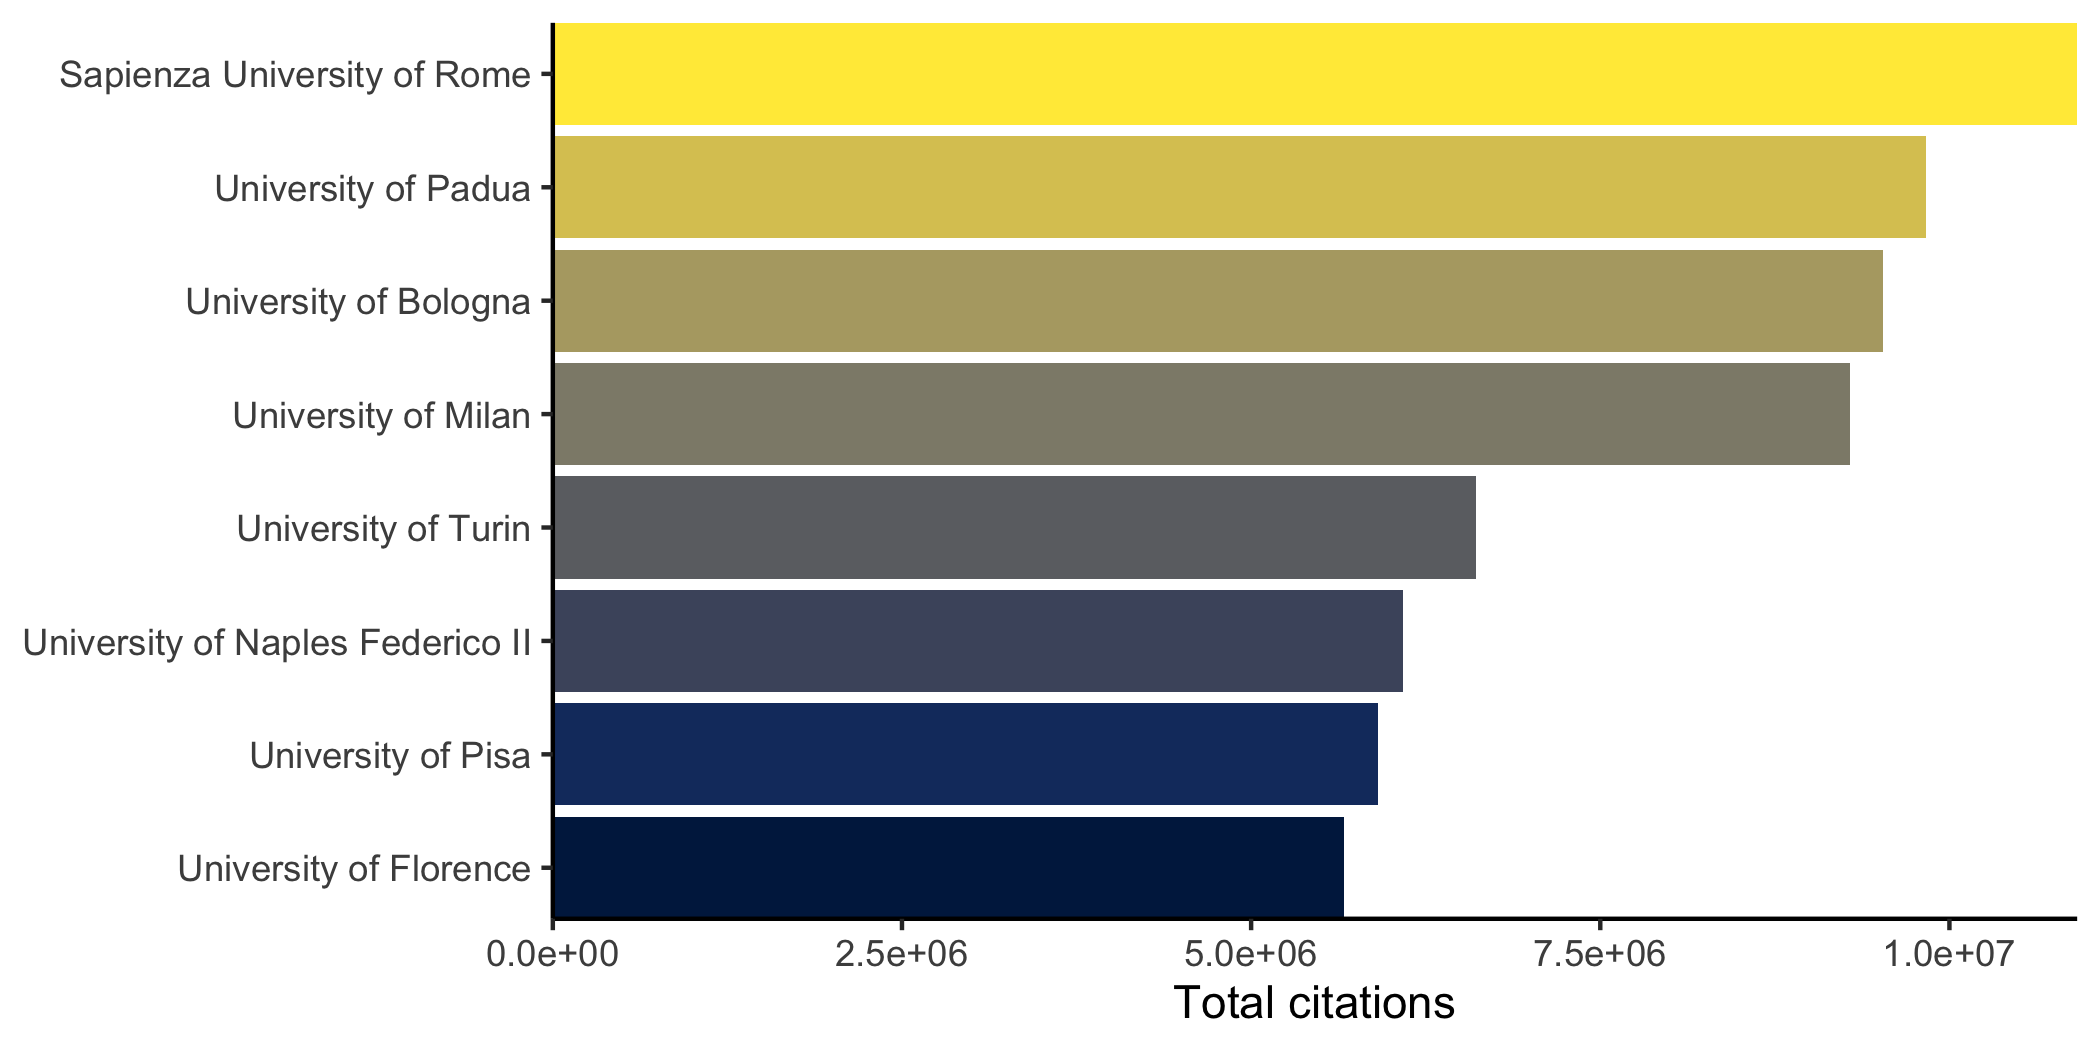
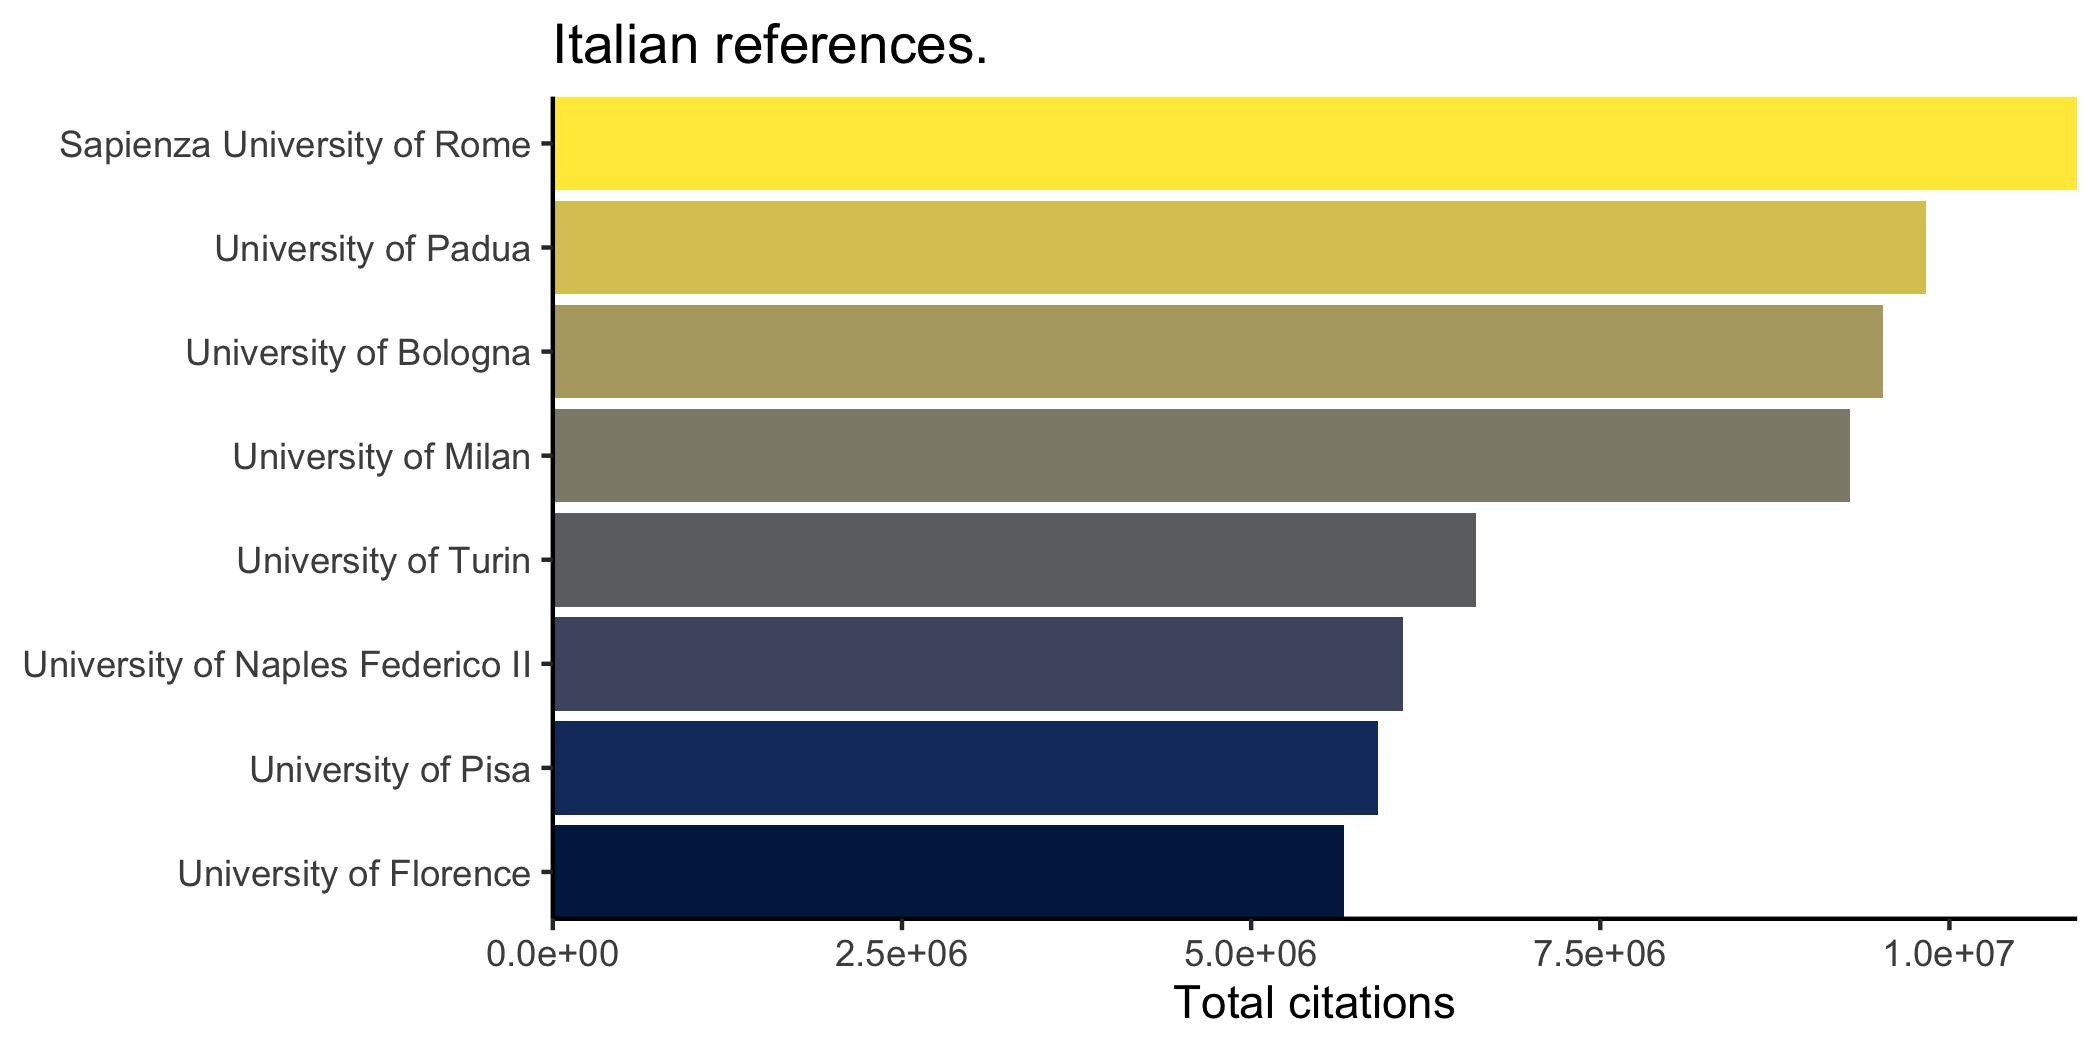
minor change

diff --git a/README.md b/README.md
@@ -6,11 +6,11 @@
 <!-- badges: start -->
 
 [![R-CMD-check](https://github.com/massimoaria/openalexR/actions/workflows/R-CMD-check.yaml/badge.svg)](https://github.com/massimoaria/openalexR/actions/workflows/R-CMD-check.yaml)
-[![](http://cranlogs.r-pkg.org/badges/grand-total/openalexR)](https://cran.r-project.org/package=openalexR)
-[![CRAN
-status](https://www.r-pkg.org/badges/version/openalexR)](https://CRAN.R-project.org/package=openalexR)
 [![Lifecycle:
 experimental](https://img.shields.io/badge/lifecycle-experimental-orange.svg)](https://lifecycle.r-lib.org/articles/stages.html#experimental)
+[![CRAN
+status](https://www.r-pkg.org/badges/version/openalexR)](https://CRAN.R-project.org/package=openalexR)
+[![](http://cranlogs.r-pkg.org/badges/grand-total/openalexR)](https://cran.r-project.org/package=openalexR)
 
 <!-- badges: end -->
 
@@ -32,12 +32,12 @@ concepts with 5 main functions:
 -   `oa2df()`: converts the JSON object in classical bibliographic
     tibble/data frame.
 
--   `oa_random()`: to get random entity, e.g., `oa_random("works")`
-    gives a different work each time you run it
+-   `oa_random()`: get random entity, *e.g.*, `oa_random("works")` gives
+    a different work each time you run it
 
 ## Setup
 
-You can install the developer version of the openalexR from
+You can install the developer version of openalexR from
 [GitHub](https://github.com) with:
 
 ``` r
@@ -62,7 +62,7 @@ options(openalexR.mailto = "example@email.com")
 ```
 
 Bonus point if you put this in your `.Rprofile` with
-`usethis::edit_r_profile()`.
+`file.edit("~/.Rprofile")`.
 
 ``` r
 library(openalexR)
@@ -78,14 +78,14 @@ There are different
 you can use in `oa_fetch`, depending on which
 [entity](https://docs.openalex.org/about-the-data) you’re interested in:
 works, authors, venues, institutions, or concepts. We show a few
-examples before.
+examples below.
 
 ### Works
 
-**Goal**: Download all information about certain publications (given
-DOIs).
+**Goal**: Download all information about a givens set of publications
+(known DOIs).
 
-Use `doi` as a [**works**
+Use `doi` as a [works
 filter](https://docs.openalex.org/api/get-lists-of-entities/filter-entity-lists#works-filters)
 (either the canonical form with <https://doi.org/> or without):
 
@@ -106,7 +106,7 @@ oa_fetch(
 | W2755950973 | bibliometrix : An R-tool for comprehensive science mapping analysis                    | Massimo Aria     | Corrado Cuccurullo | Journal of Informetrics | <https://doi.org/10.1016/j.joi.2017.08.007>      | FALSE | Data science, Information retrieval                                |
 | W3206431085 | PMLB v1.0: an open-source dataset collection for benchmarking machine learning methods | Joseph D. Romano | Jason H. Moore     | Bioinformatics          | <https://doi.org/10.1093/bioinformatics/btab727> | TRUE  | Benchmarking, Python (programming language), Benchmark (surveying) |
 
-**Goal**: Download all works published by a set of authors (given
+**Goal**: Download all works published by a set of authors (known
 ORCIDs).
 
 Use `author.orcid` as a filter (for now, we need to provide the
@@ -170,9 +170,8 @@ oa_fetch(
 **Goal**: Download author information when we know their ORCID.
 
 Here, instead of `author.orcid` like earlier, we have to use `orcid` as
-an argument. This may be a little confusing, but again, because this is
-a different entity (**authors** instead of **works**), we have to use a
-[different set of
+an argument. This may be a little confusing, but again, a different
+entity (**authors** instead of **works**) requires a [different set of
 filters](https://docs.openalex.org/api/get-lists-of-entities/filter-entity-lists#authors-filters).
 
 ``` r
@@ -191,7 +190,7 @@ oa_fetch(
 
 **Goal**: Acquire information on the authors of this package.
 
-We can also filter by other
+We can filter by other
 [filters](https://docs.openalex.org/api/get-lists-of-entities/filter-entity-lists#authors-filters)
 such as `display_name` and `has_orcid`:
 
@@ -215,21 +214,20 @@ oa_fetch(
 II](https://explore.openalex.org/institutions/I71267560) (OpenAlex ID:
 I71267560) and have published at least 500 publications.
 
-Let’s first check how many records match the query, then set
-`count_only = FALSE` to download the entire collection. We can do this
-by first defining a list of arguments, then adding `count_only` (default
-`FALSE`) to this list:
+Let’s first check how many records match the query, then download the
+entire collection. We can do this by first defining a list of arguments,
+then adding `count_only` (default `FALSE`) to this list:
 
 ``` r
 my_arguments <- list(
   entity = "authors",
   last_known_institution.id = "I71267560",
   works_count = ">499"
-  )
+)
 
 do.call(oa_fetch, c(my_arguments, list(count_only = TRUE)))
 #>      count db_response_time_ms page per_page
-#> [1,]    24                  31    1        1
+#> [1,]    24                   6    1        1
 do.call(oa_fetch, my_arguments) %>% 
   show_authors() %>%
   knitr::kable()
@@ -269,7 +267,8 @@ concept_df %>%
   facet_wrap(~ display_name) +
   geom_line(size = 0.7) +
   scale_color_brewer(palette = "Dark2") +
-  labs(x = NULL, y = "Works count") +
+  labs(x = NULL, y = "Works count",
+       title = "We know what happened in 2020.") +
   guides(color = "none") +
   gghighlight(max(works_count) > 99500) +
   NULL
@@ -303,7 +302,8 @@ italy_insts %>%
   geom_col() +
   scale_fill_viridis_d(option = "E") +
   guides(fill = "none") +
-  labs(x = "Total citations", y = NULL) +
+  labs(x = "Total citations", y = NULL,
+       title = "Italian references.") +
   coord_cartesian(expand = FALSE)
 ```
 
@@ -342,7 +342,8 @@ jours %>%
   scale_fill_brewer(palette = "Set1") +
   scale_y_continuous(breaks = 50) +
   guides(fill = "none") +
-  labs(y = NULL, x = NULL)
+  labs(y = NULL, x = NULL,
+       title = "Journal clocks.")
 ```
 
 <img src="man/figures/README-big-journals-1.png" width="100%" />
